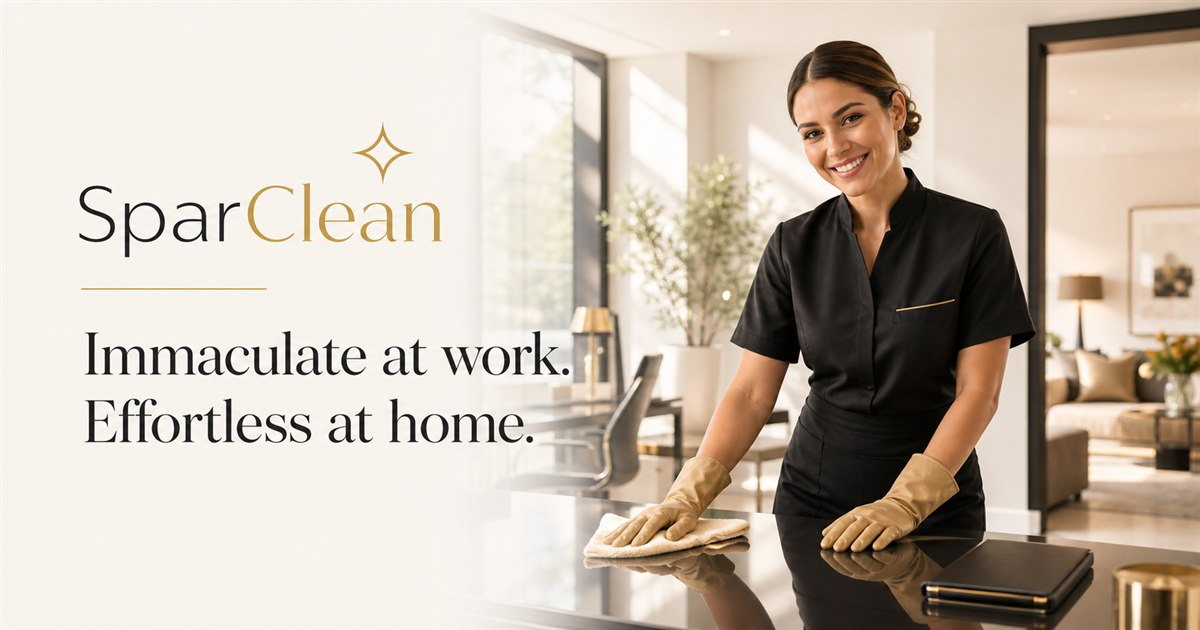
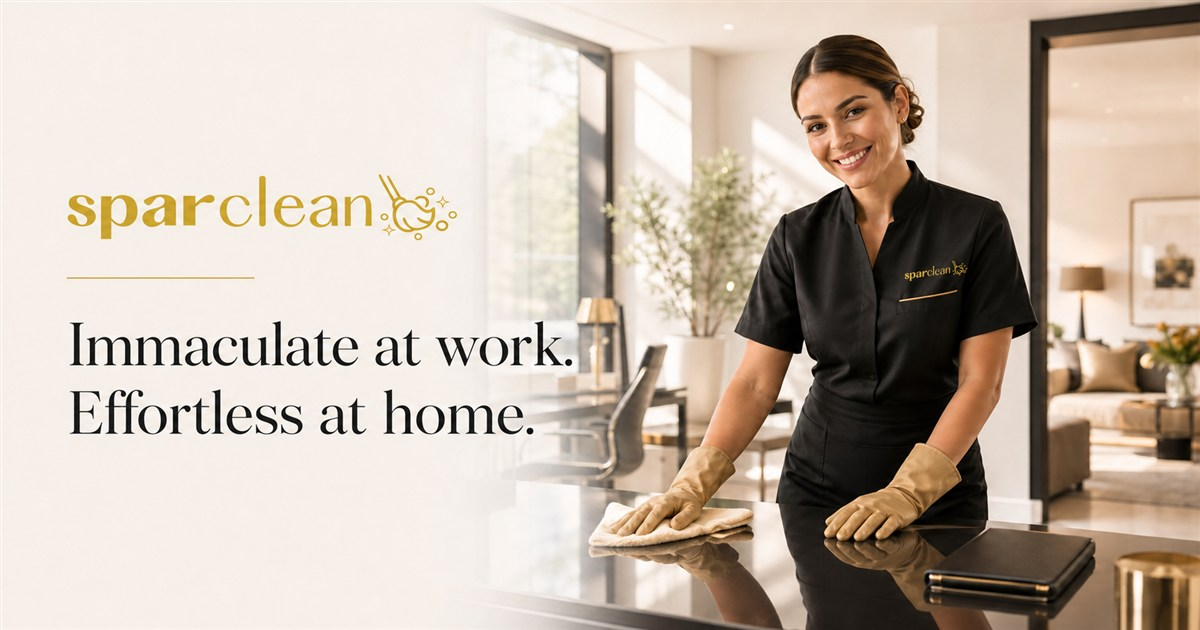
Refine branded care visuals

diff --git a/app/globals.css b/app/globals.css
@@ -1016,7 +1016,15 @@ main {
   background: radial-gradient(circle at 20% 20%, rgba(255, 255, 255, .18), transparent 30%), repeating-radial-gradient(circle at 0 100%, transparent 0 32px, rgba(25, 25, 22, .055) 33px 34px);
 }
 .membership-card .light-text { color: var(--on-gold); }
-.membership-card .display-sm em { color: var(--on-gold-muted); }
+.membership-card .display-sm em {
+  color: #11110e;
+  background: none;
+  -webkit-background-clip: border-box;
+  background-clip: border-box;
+  -webkit-text-fill-color: #11110e;
+  font-weight: 500;
+  text-shadow: 0 1px 0 rgba(255, 255, 255, .34);
+}
 .membership-copy > p { color: var(--on-gold-muted); }
 .membership-benefits > div {
   border-color: rgba(25, 25, 22, .15);
@@ -1784,15 +1792,15 @@ main {
   .client-care-intro:after { display: block; }
   .client-care-position { display: none; }
   .client-care-carousel { height: 410px; }
-  .client-care-panel { flex-basis: 164px; }
-  .client-care-panel.active { flex-basis: 500px; }
+  .client-care-panel { flex-basis: 138px; }
+  .client-care-panel.active { flex-basis: 470px; }
   .client-care-trigger { padding: 24px 34px 26px 49px; }
   .client-care-trigger-mark { top: 28px; right: 39px; }
   .client-care-trigger-title { font-size: 1.05rem; }
   .client-care-caption { left: 52px; width: min(520px, calc(100% - 112px)); }
 }
 
-@media (max-width: 600px) {
+@media (max-width: 720px) {
   .client-differentials { padding: 48px 0 54px; }
   .client-care-layout { width: calc(100% - 24px); gap: 27px; }
   .client-care-intro { display: block; padding-inline: 4px; }

diff --git a/app/page.tsx b/app/page.tsx
@@ -21,6 +21,7 @@ type IconName =
   | "language"
   | "paw"
   | "family"
+  | "heart"
   | "quote"
   | "play"
   | "pause"
@@ -47,6 +48,7 @@ function Icon({ name, size = 20 }: { name: IconName; size?: number }) {
     language: <><circle cx="12" cy="12" r="9"/><path d="M3 12h18M12 3c2.4 2.5 3.6 5.5 3.6 9S14.4 18.5 12 21c-2.4-2.5-3.6-5.5-3.6-9S9.6 5.5 12 3Z"/></>,
     paw: <><circle cx="7" cy="8" r="2"/><circle cx="12" cy="5.5" r="2"/><circle cx="17" cy="8" r="2"/><path d="M8.2 13.1c1.9-2.2 5.7-2.2 7.6 0l1.2 1.5c1.6 2-.1 5-2.7 4.4l-2.3-.6-2.3.6c-2.6.6-4.3-2.4-2.7-4.4l1.2-1.5Z"/></>,
     family: <><circle cx="9" cy="8" r="3"/><circle cx="17" cy="9" r="2.3"/><path d="M3.5 20c.4-4 2.2-6 5.5-6s5.1 2 5.5 6M14 15c.8-.8 1.8-1.2 3-1.2 2.4 0 3.8 1.7 4 4.7"/></>,
+    heart: <path d="M20.8 4.7a5.5 5.5 0 0 0-7.8 0L12 5.8l-1.1-1.1a5.5 5.5 0 0 0-7.8 7.8L12 21l8.8-8.5a5.5 5.5 0 0 0 0-7.8Z"/>,
     quote: <path d="M7 17H3l2-5H3V7h6v5l-2 5Zm10 0h-4l2-5h-2V7h6v5l-2 5Z"/>,
     play: <path d="m9 7 8 5-8 5V7Z"/>,
     pause: <><path d="M9 5v14"/><path d="M15 5v14"/></>,
@@ -183,6 +185,15 @@ const clientCareSlides = [
     image: "/care-child-friendly.webp",
     alt: "A SparClean professional cleaning while a parent and child play safely nearby",
     icon: "family" as IconName,
+  },
+  {
+    id: "senior-friendly",
+    title: "Senior-friendly care",
+    shortTitle: "Senior-friendly",
+    copy: "Respectful routines, clear communication, and an unhurried approach help older adults feel comfortable while we care for their home.",
+    image: "/care-senior-friendly.jpg",
+    alt: "A smiling SparClean professional cleaning a bright living room while an older client relaxes comfortably nearby",
+    icon: "heart" as IconName,
   },
 ] as const;
 
@@ -747,7 +758,7 @@ export default function Home() {
             <h2 id="client-care-title">Considered care,<br/><em>made personal.</em></h2>
             <p>Every household moves differently. Explore the thoughtful details we build into every visit.</p>
             <div className="client-care-position" aria-hidden="true">
-              <strong>0{clientCareIndex + 1}</strong><span>/ 03</span>
+              <strong>{String(clientCareIndex + 1).padStart(2, "0")}</strong><span>/ {String(clientCareSlides.length).padStart(2, "0")}</span>
             </div>
           </header>
 
@@ -776,7 +787,7 @@ export default function Home() {
                   >
                     <span className="client-care-trigger-icon"><Icon name={slide.icon} size={20}/></span>
                     <span className="client-care-trigger-title">{slide.shortTitle}</span>
-                    <span className="client-care-trigger-mark" aria-hidden="true">0{index + 1}</span>
+                    <span className="client-care-trigger-mark" aria-hidden="true">{String(index + 1).padStart(2, "0")}</span>
                   </button>
 
                   <div

diff --git a/app/sitemap.ts b/app/sitemap.ts
@@ -10,6 +10,7 @@ const pageImagePaths = [
   "/care-english-speaking.webp",
   "/care-pet-friendly.webp",
   "/care-child-friendly.webp",
+  "/care-senior-friendly.jpg",
   "/kitchen-before-matched.webp",
   "/kitchen-after.webp",
   ...resultImagePaths,